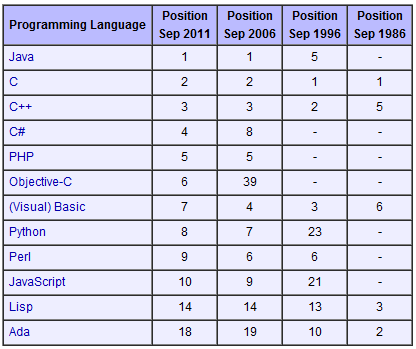
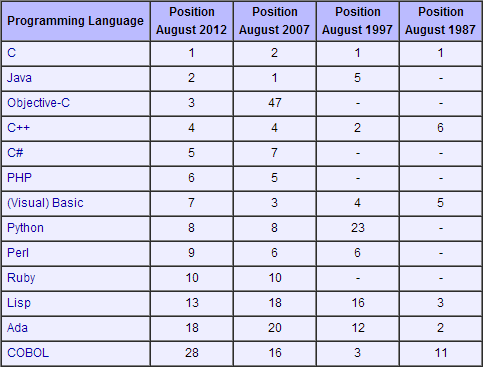
Batch checkin by Makefile (2012-08-30 12:54 on nclab.hit.edu.cn)

diff --git a/dn-devel.tex b/dn-devel.tex
@@ -126,10 +126,30 @@ form1.Show();
 \begin{frame}
 \frametitle{编程语言排行榜(TIOBE)}
 \begin{itemize}
+\item 2012--08: Where is C\# heading?
+\end{itemize}
+
+\centering\includegraphics[width=8cm]{tiobe-201208}
+
+\end{frame}
+
+\begin{frame}
+\frametitle{编程语言排行榜(TIOBE)}
+\begin{itemize}
+\item Long term trends
+\end{itemize}
+
+\centering\includegraphics[width=9cm]{tiobe-trends}
+
+\end{frame}
+
+\begin{frame}
+\frametitle{编程语言排行榜(TIOBE)}
+\begin{itemize}
 \item 5, 10, 15 年 top10 排名
 \end{itemize}
 
-\centering \includegraphics[width=6cm]{tiobe-long}
+\centering \includegraphics[width=7cm]{tiobe-long}
 
 \end{frame}
 
